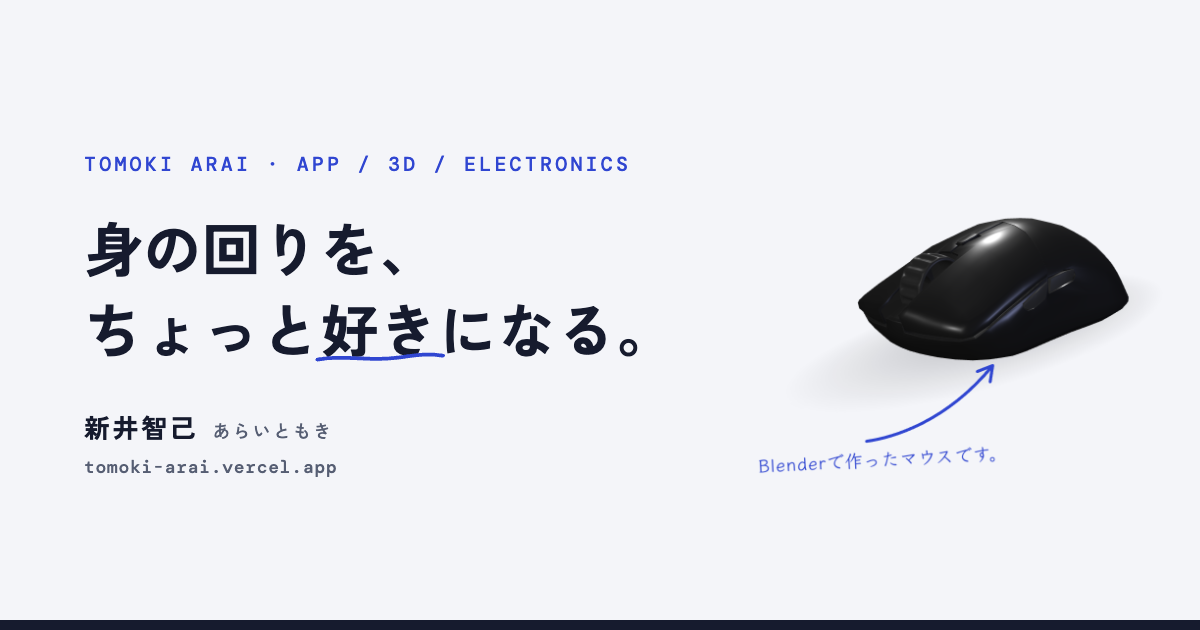
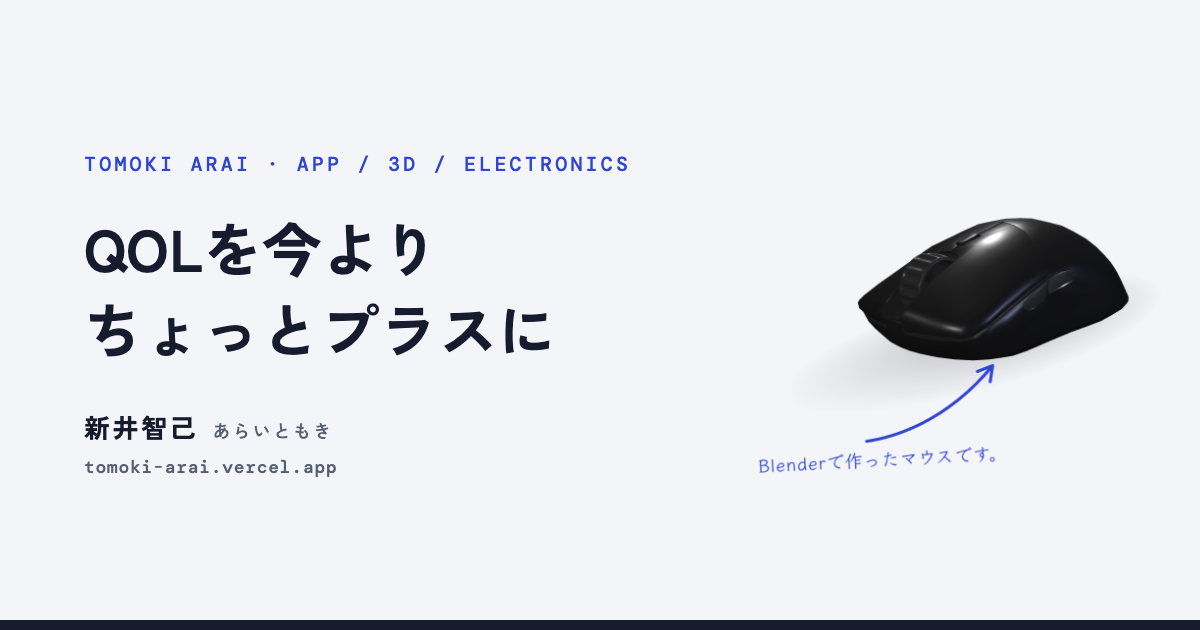
Rewrite the profile, history, and download text
Text written by the owner in edit mode, with typo and notation fixes.
The new tagline also replaces the old one in the meta descriptions,
README, and the regenerated OG image. History entries now link to the
work that matches each year.

Changed region(s): [[0.0617, 0.3317, 0.37, 0.4524], [0.2467, 0.4825, 0.555, 0.573]]

diff --git a/index.html b/index.html
@@ -6,7 +6,7 @@
     <title>新井智己（あらいともき・あらとも）| Tomoki Arai Portfolio</title>
     <meta
       name="description"
-      content="新井智己のポートフォリオです。「身の回りを、ちょっと好きになる。」をテーマに、アプリ・3D・電子工作で作った作品と、配布しているデータを紹介しています。"
+      content="新井智己のポートフォリオです。「QOLを今よりちょっとプラスに」をテーマに、アプリ・3D・電子工作で作った作品と、配布しているデータを紹介しています。"
     />
     <meta name="robots" content="index, follow" />
     <meta name="author" content="新井智己（Tomoki Arai）" />
@@ -47,20 +47,20 @@
     <meta property="og:title" content="新井智己（あらいともき・あらとも）| Tomoki Arai Portfolio" />
     <meta
       property="og:description"
-      content="「身の回りを、ちょっと好きになる。」をテーマに、アプリ・3D・電子工作の作品を作っています。新井智己（Tomoki Arai）のポートフォリオです。"
+      content="「QOLを今よりちょっとプラスに」をテーマに、アプリ・3D・電子工作の作品を作っています。新井智己（Tomoki Arai）のポートフォリオです。"
     />
     <meta property="og:url" content="https://tomoki-arai.vercel.app/" />
     <meta property="og:image" content="https://tomoki-arai.vercel.app/og-image.png" />
     <meta property="og:image:width" content="1200" />
     <meta property="og:image:height" content="630" />
     <meta property="og:image:type" content="image/png" />
-    <meta property="og:image:alt" content="新井智己のポートフォリオ「身の回りを、ちょっと好きになる。」" />
+    <meta property="og:image:alt" content="新井智己のポートフォリオ「QOLを今よりちょっとプラスに」" />
 
     <meta name="twitter:card" content="summary_large_image" />
     <meta name="twitter:title" content="新井智己（あらいともき・あらとも）| Tomoki Arai Portfolio" />
     <meta
       name="twitter:description"
-      content="「身の回りを、ちょっと好きになる。」をテーマに、アプリ・3D・電子工作の作品を作っています。新井智己（Tomoki Arai）のポートフォリオです。"
+      content="「QOLを今よりちょっとプラスに」をテーマに、アプリ・3D・電子工作の作品を作っています。新井智己（Tomoki Arai）のポートフォリオです。"
     />
     <meta name="twitter:image" content="https://tomoki-arai.vercel.app/og-image.png" />
 
@@ -92,7 +92,7 @@
             "jobTitle": "App / 3D / Electronics Creator",
             "affiliation": { "@type": "CollegeOrUniversity", "name": "神山まるごと高等専門学校" },
             "knowsAbout": ["アプリ開発", "Web制作", "3D制作", "電子工作", "React", "Three.js", "Flutter", "Firebase", "Blender", "Arduino", "KiCad"],
-            "description": "新井智己（あらいともき・あらとも）は、「身の回りを、ちょっと好きになる。」をテーマに、アプリ・3D・電子工作の作品を作っている神山まるごと高専の学生です。"
+            "description": "新井智己（あらいともき・あらとも）は、「QOLを今よりちょっとプラスに」をテーマに、アプリ・3D・電子工作の作品を作っている神山まるごと高専の学生です。"
           },
           {
             "@type": "WebSite",
@@ -123,7 +123,7 @@
     <noscript>
       <main style="max-width: 40em; margin: 0 auto; padding: 48px 20px; font-family: sans-serif; line-height: 1.9">
         <h1>新井智己（あらいともき・あらとも）のポートフォリオ</h1>
-        <p>身の回りを、ちょっと好きになる。</p>
+        <p>QOLを今よりちょっとプラスに</p>
         <p>
           新井智己（読み：あらいともき、通称：あらとも、英語表記：Tomoki Arai）のポートフォリオです。アプリ・3D・電子工作の作品と、配布しているデータを紹介しています。
         </p>

diff --git a/scripts/og/og.html b/scripts/og/og.html
@@ -22,7 +22,7 @@
 <div class="og">
   <div class="copy">
     <div class="eyebrow">TOMOKI ARAI · APP / 3D / ELECTRONICS</div>
-    <h1><span>身の回りを、</span><span>ちょっと<span class="ink">好き<svg viewBox="0 0 120 16"><path d="M3 10.5C26 6 52 12.5 78 8.5S108 6 117 7"/></svg></span>になる。</span></h1>
+    <h1><span>QOLを今より</span><span>ちょっとプラスに</span></h1>
     <div class="name">新井智己<small>あらいともき</small></div>
     <div class="url">tomoki-arai.vercel.app</div>
   </div>

diff --git a/src/content/downloads/mtools.md b/src/content/downloads/mtools.md
@@ -13,6 +13,6 @@ image: /images/projects/mtools.svg
 note: 2.2.0・ビルド8のApple未公証テスト版です。macOSのセキュリティ設定によって起動できない場合があります。自動貼り付け・ウィンドウ整列にはアクセシビリティ、範囲コピーには画面収録の許可が必要です。履歴は暗号化されないため、機密情報を扱うときは履歴機能をOFFにしてください。
 ---
 
-使いたい機能だけONにできる、Macの小さな道具箱。ウィンドウを最前面に映すLove Tab、範囲コピー、クリップボード履歴、Windows式のウィンドウ整列をまとめました。
+使いたい機能だけONにできる、Macの小さな道具箱です（本当のことを言うとWindows派なのですが、学校指定がMacで不便すぎたので作った、PowerToysのパクリです）。ウィンドウを最前面に映すLove Tab、範囲コピー、クリップボード履歴、Windows式のウィンドウ整列が機能として入っています。
 
-ZIPを展開して、m+toolsをApplicationsへ移動すると使い始められます。履歴はこのMacに保存し、ネットワークへ送信しません。アプリ内からテスト版の更新を確認できます。
+ZIPを展開して、m+toolsをApplicationsへ移動すると使い始められます。履歴はローカルに保存します。アプリ内からテスト版の更新を確認できます。

diff --git a/src/content/downloads/rennda-app.md b/src/content/downloads/rennda-app.md
@@ -11,4 +11,4 @@ image: /images/projects/rennda-app.png
 note: 署名なしのアプリのため、初回は右クリックして「開く」を選ぶと起動できます。マウスを操作するために「アクセシビリティ」の許可が必要です。
 ---
 
-作業やゲームで連射ツールが欲しくなることがありますが、どこから入手すれば安全で軽いのかを見極めるのは難しいものです。そこで、自分で作りました。左右クリックの連射、ホットキーでのオン・オフ、間隔のプリセット、設定の自動保存に対応しています。
+作業やゲームで連射ツールが欲しくなることがありますが、怪しいサイトから持ってくるのは嫌ですし、出回っているものは多いのに機能がばらばらです。そこで、より軽量で自分的に使いやすいと思うものを自分で作りました。左右クリックの連射、ホットキーでのオン・オフ、間隔のプリセット、設定の自動保存に対応しています。

diff --git a/src/content/downloads/pvp-npc-ai.md b/src/content/downloads/pvp-npc-ai.md
@@ -10,4 +10,4 @@ file: /downloads/pvpnpcai-1.0.0.jar
 note: Forge 1.20.1 を導入したうえで、modsフォルダに入れて使います。
 ---
 
-Minecraftの世界に、プレイヤーのように戦うNPCを呼び出せるModです。/pvpnpc コマンドでNPCを召喚し、チームや強さ、戦い方を設定できます。PvPの練習相手として作りました。
+Minecraftの世界に、プレイヤーのように戦うNPCを呼び出せるModです。/pvpnpc コマンドでNPCを召喚し、チームや強さ、戦い方を設定できます。MinecraftのAI PvP界隈を賑わせたいなと思って開発しました。

diff --git a/src/content/downloads/mouse-model.md b/src/content/downloads/mouse-model.md
@@ -9,4 +9,4 @@ file: /downloads/mouse-model.glb
 image: /images/projects/mouse-model.png
 ---
 
-トップページで回せる、Blenderで作ったマウスの3Dモデルです。glTF（.glb）形式なので、Blenderなどの3Dソフトや、Webの3D表示で使えます。
+Blenderで作ったマウスの3Dモデルです。glTF（.glb）形式なので、Blenderなどの3Dソフトや、Webの3D表示で使えます。遊びで作ったやつです。

diff --git a/README.md b/README.md
@@ -3,7 +3,7 @@
 新井智己（Tomoki Arai）のポートフォリオサイトです。React + Vite で作り、Vercel で公開しています。
 
 - 公開URL: **https://tomoki-arai.vercel.app/**
-- テーマ: **身の回りを、ちょっと好きになる。**
+- テーマ: **QOLを今よりちょっとプラスに**
 
 > 現行版はこのリポジトリで管理しています。旧版のリポジトリとGitHub Pagesは終了しました。
 

diff --git a/src/content/downloads/nightbell.md b/src/content/downloads/nightbell.md
@@ -8,4 +8,4 @@ tags: [GarageBand]
 file: /downloads/NightBell.mp3
 ---
 
-GarageBandで初めて作った、ジングル風の短い曲です。
+GarageBandで初めて作った短い曲です。ちょっと不穏で落ち着かないような不気味な雰囲気を醸し出すBGMです。Dotumeで開発したUnletterの最後のステージのBGMとして使いました。
